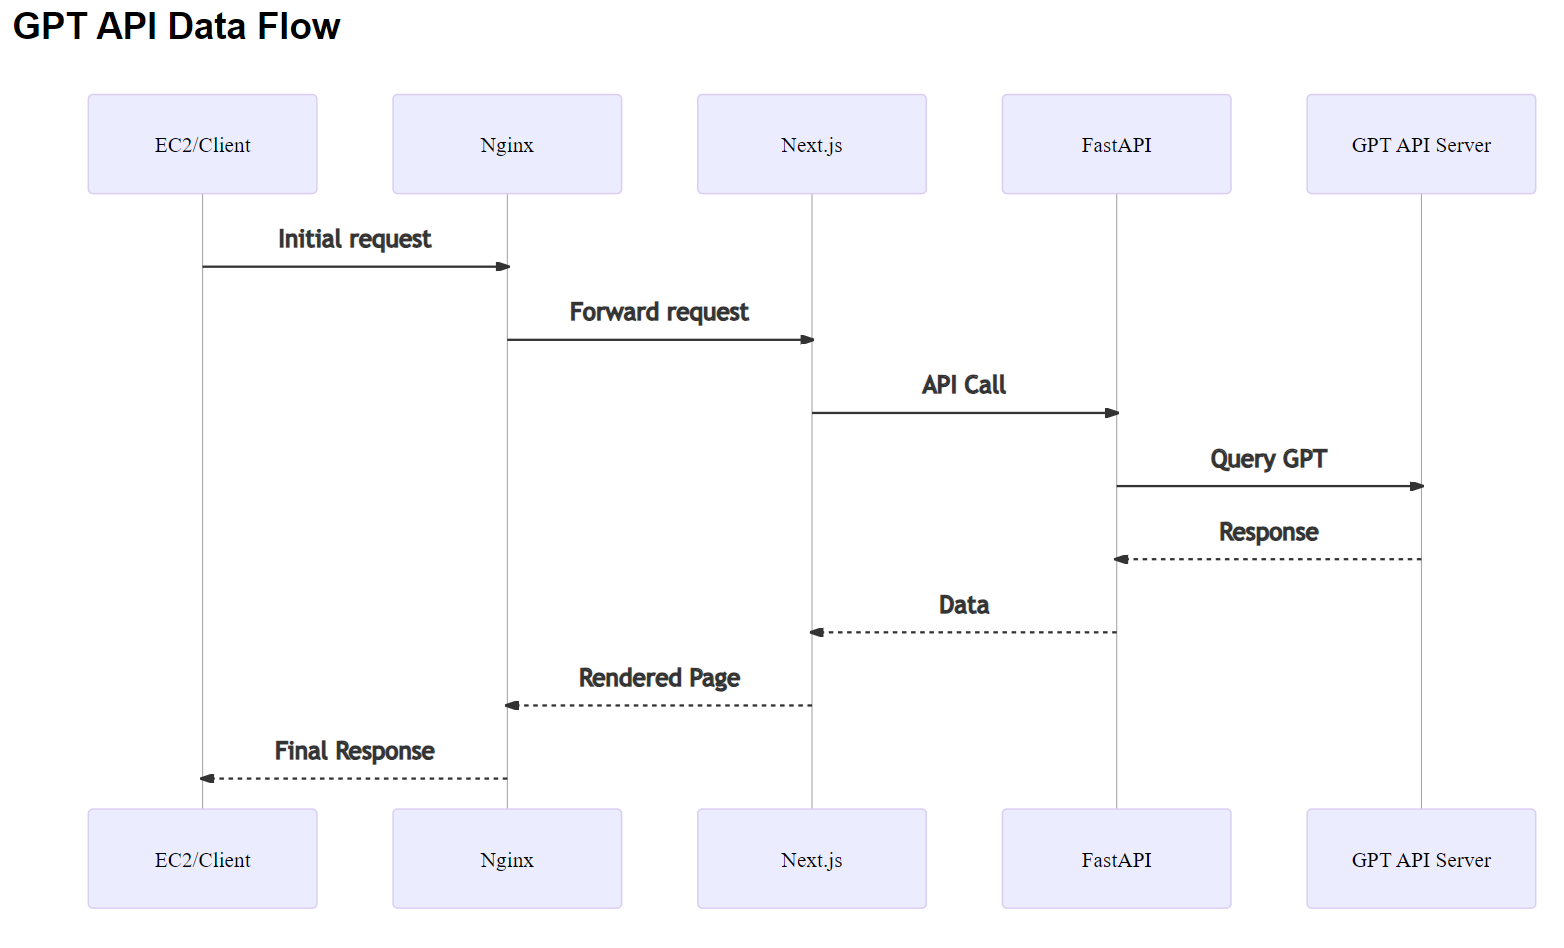
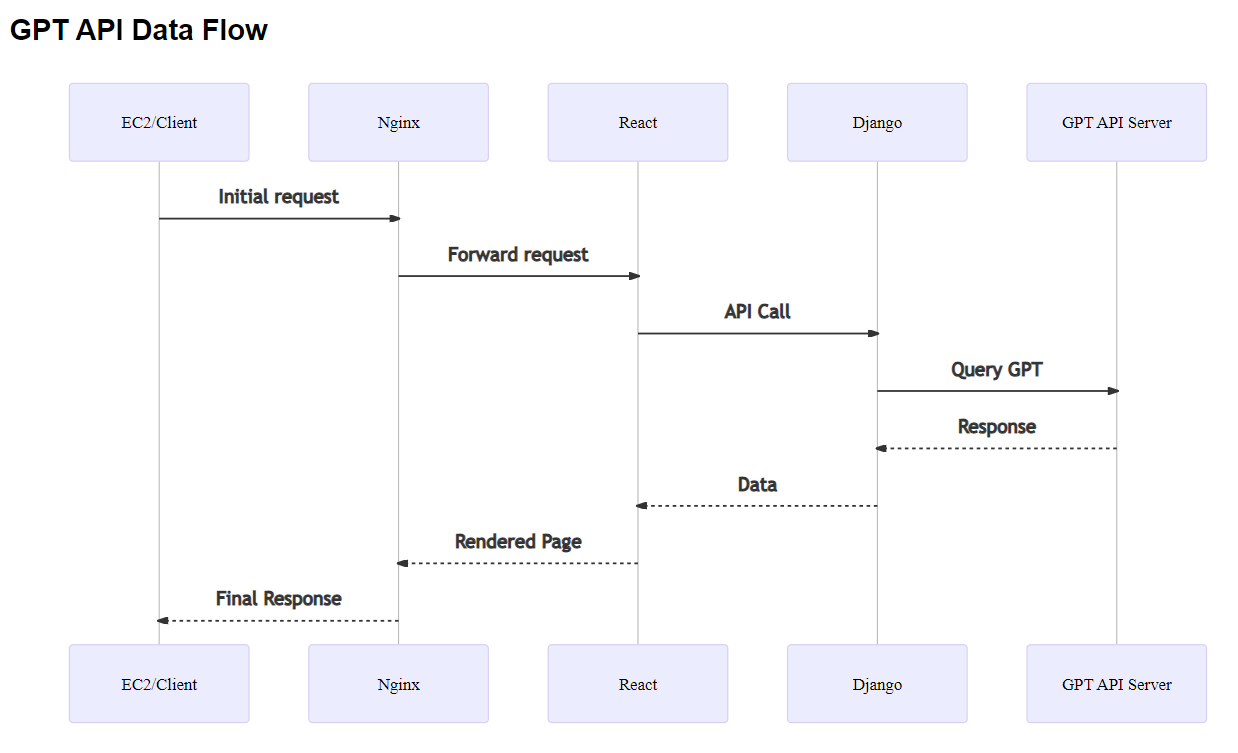
chore():

diff --git a/main.tex b/main.tex
@@ -18,12 +18,12 @@
 \definecolor{darkblue}{rgb}{0.0, 0.2, 0.6}
 
 
-\title{SKKU Mail: A GPT-Integrated Email Service for Dynamic Content Generation}
+\title{MailGPT: A GPT-Integrated Email Service for Dynamic Content Generation}
 \author{
     Yosep Kim\textsuperscript{1}, 
-    Dohyun Boo\textsuperscript{2}, 
+    Dohyun Bu\textsuperscript{2}, 
     Sumin Lim\textsuperscript{3}, 
-    Miseo Jeong\textsuperscript{4}, 
+    Miseo Joung\textsuperscript{4}, 
 }
 \date{\today}
 
@@ -32,10 +32,10 @@
 
 \begin{center}
 	\textsuperscript{1,2,3,4}Sungkyunkwan University\\
-	\href{https://skkumail.intueri.cloud}{https://skkumail.intueri.cloud}
+	\href{https://mailgpt.intueri.cloud}{https://mailgpt.intueri.cloud}
 \end{center}
 \begin{abstract}
-	In the digital communication era, email remains a pivotal tool for professional interactions. Despite its prevalence, composing a proficient email that encapsulates clarity, conciseness, and the appropriate tone can be complex. Miscommunications in such contexts can inadvertently lead to undesired consequences. SKKUMAIL introduces a novel solution by integrating the GPT API to facilitate dynamic email content creation suited to user intent. This system is technologically underpinned by Next.js for frontend design, Docker for deployment, and MongoDB for data management, establishing it as a potential game-changer in digital communication. Its architecture is modular, ensuring adaptability, and incorporates a user-friendly workflow. With the collaborative expertise of team members like Yosep Kim, Dohyeon Boo, Sumin Lim, and Miseo Jeong, SKKUMAIL seeks to redefine the realm of email drafting.
+	In the digital communication era, email remains a pivotal tool for professional interactions. Despite its prevalence, composing a proficient email that encapsulates clarity, conciseness, and the appropriate tone can be complex. Miscommunications in such contexts can inadvertently lead to undesired consequences. MailGPT introduces a novel solution by integrating the GPT API to facilitate dynamic email content creation suited to user intent. This system is technologically underpinned by React for frontend design, Docker for deployment, and SQLite for data management, establishing it as a potential game-changer in digital communication. Its architecture is modular, ensuring adaptability, and incorporates a user-friendly workflow. With the collaborative expertise of team members like Yosep Kim, Dohyun Bu, Sumin Lim, and Miseo Joung, MailGPT seeks to redefine the realm of email drafting.
 \end{abstract}
 \section{Introduction}
 
@@ -45,13 +45,13 @@ In the current digital age, email remains a primary medium for professional comm
 
 The essence of these challenges stems from the inability of individuals to quickly adapt their writing styles to different contexts. A miscommunication or a misinterpreted tone can have unintended consequences, affecting relationships and business outcomes. Therefore, it's imperative to strike the right balance, ensuring that the content of the email aligns perfectly with its intent.
 
-\subsection{Solution: SKKUMAIL}
+\subsection{Solution: MailGPT}
 
-Enter SKKUMAIL: a revolutionary approach to email writing. This service integrates the powerful language capabilities of the GPT API, offering dynamic email content generation tailored to the user's requirements. By simply specifying the target and mood of the email, users are provided with content that matches their intent, eliminating the common pain points of email drafting.
+Enter MailGPT: a revolutionary approach to email writing. This service integrates the powerful language capabilities of the GPT API, offering dynamic email content generation tailored to the user's requirements. By simply specifying the target and mood of the email, users are provided with content that matches their intent, eliminating the common pain points of email drafting.
 
 \subsection{Technical Backbone}
 
-Underpinning SKKUMAIL is a robust technological framework. It leverages the capabilities of Next.js for frontend development, ensuring a responsive and intuitive user interface. Docker facilitates easy deployment, ensuring that the application remains scalable and resilient. The data backbone of the application, including email drafts and user preferences, is managed through MongoDB, a versatile and efficient database solution. The fusion of these technologies, coupled with the intelligence of the GPT API, positions SKKUMAIL as a forerunner in transforming digital communication.
+Underpinning MailGPT is a robust technological framework. It leverages the capabilities of React for frontend development, ensuring a responsive and intuitive user interface. Docker facilitates easy deployment, ensuring that the application remains scalable and resilient. The data backbone of the application, including email drafts and user preferences, is managed through SQLite, a versatile and efficient database solution. The fusion of these technologies, coupled with the intelligence of the GPT API, positions MailGPT as a forerunner in transforming digital communication.
 
 
 \section{System Architecture}
@@ -61,30 +61,30 @@ The system architecture of our application is robust and designed to handle the 
 \subsection{Components}
 Our system is divided into three core components, each dedicated to performing its task efficiently:
 \begin{itemize}
-	\item \textbf{Frontend}: Developed using Next.js, a popular React framework known for its server-side rendering capabilities. It ensures a seamless user experience, catering to a responsive design that is adaptable across devices of varying sizes.
+	\item \textbf{Frontend}: Developed using React, a popular React framework known for its server-side rendering capabilities. It ensures a seamless user experience, catering to a responsive design that is adaptable across devices of varying sizes.
 	      	          
-	\item \textbf{Backend}: Developed using Fast API, a high-performance framework for building web applications. This component is responsible for the system's core logic, including its interaction with MongoDB and the GPT API. It plays a pivotal role in data processing and content generation.
+	\item \textbf{Backend}: Developed using Fast API, a high-performance framework for building web applications. This component is responsible for the system's core logic, including its interaction with SQLite and the GPT API. It plays a pivotal role in data processing and content generation.
 	      	          
-	\item \textbf{Database}: We've opted for MongoDB as our primary data store. Renowned for its NoSQL capabilities, MongoDB is perfect for storing prompts and the dynamically generated content. Its schema-less nature offers flexibility in data storage, ensuring adaptability as the system evolves.
+	\item \textbf{Database}: We've opted for SQLite as our primary data store. 
 \end{itemize}
 
 \subsection{Workflow}
 The workflow is straightforward and user-centric. Upon accessing the platform, users are prompted to provide the target email and their desired mood or tone for the email content. This leads to a sequence of operations:
 
-The frontend, harnessing the capabilities of Next.js, utilizes a predefined template to generate a unique prompt based on the user's input. This prompt is securely stored in MongoDB for future reference. Following this, the backend, powered by Fast API, dispatches the prompt to the GPT API. The GPT API, using its advanced natural language processing capabilities, crafts an appropriate email content tailored to the user's requirements. This content is returned in Markdown format, allowing users to view a well-structured preview.
+The frontend, harnessing the capabilities of React, utilizes a predefined template to generate a unique prompt based on the user's input. This prompt is securely stored in SQLite for future reference. Following this, the backend, powered by Fast API, dispatches the prompt to the GPT API. The GPT API, using its advanced natural language processing capabilities, crafts an appropriate email content tailored to the user's requirements. This content is returned in Markdown format, allowing users to view a well-structured preview.
 
 If the user is satisfied with the generated content, a confirmation is obtained. Subsequently, the content is sent to the designated target email address using SMTP, ensuring timely and reliable delivery.
 
 \section{Technical Details}
 
 \subsection{Frontend}
-The frontend, developed using the sophisticated Next.js framework, serves as the gateway to our application. It's the first point of contact for users, offering them an intuitive interface to input their requirements. Built with a responsive design, it ensures accessibility across a myriad of devices, from desktops to smartphones. It is designed to be both visually appealing and functional, enhancing user engagement and satisfaction.
+The frontend, developed using the sophisticated React framework, serves as the gateway to our application. It's the first point of contact for users, offering them an intuitive interface to input their requirements. Built with a responsive design, it ensures accessibility across a myriad of devices, from desktops to smartphones. It is designed to be both visually appealing and functional, enhancing user engagement and satisfaction.
 
 \subsection{Backend}
 At the heart of our application lies the backend, which orchestrates a symphony of operations:
 
 \begin{enumerate}
-	\item \textbf{Interaction with MongoDB}: Even though MongoDB serves as our primary database, we leverage MongoDB for certain relational data requirements. It provides a robust and efficient platform for data storage and retrieval.
+	\item \textbf{Interaction with SQLite}: Even though SQLite serves as our primary database, we leverage SQLite for certain relational data requirements. It provides a robust and efficient platform for data storage and retrieval.
 	      	          
 	\item \textbf{Sending the prompt to the GPT API}: The core functionality. Based on user inputs, the system creates a custom prompt. This is dispatched to the GPT API, awaiting its magic of content generation.
 	      	          
@@ -93,7 +93,7 @@ At the heart of our application lies the backend, which orchestrates a symphony 
 
 \subsection{Data Flow Diagrams}
 
-The intricate interplay between the frontend and backend of SKKUMAIL is aptly captured using detailed data flow diagrams. These diagrams, while complex in their representation, serve as a beacon for understanding the delicate choreography of data exchange and processing that ensues within our system. The multifarious activities and communication pathways, showcasing the convergence of various system modules, are intricately laid out in these diagrams. 
+The intricate interplay between the frontend and backend of MailGPT is aptly captured using detailed data flow diagrams. These diagrams, while complex in their representation, serve as a beacon for understanding the delicate choreography of data exchange and processing that ensues within our system. The multifarious activities and communication pathways, showcasing the convergence of various system modules, are intricately laid out in these diagrams. 
 
 Our decision to utilize such expressive visuals stems from the quintessential need for clear and precise elucidation of the interactions between different system components. For developers, stakeholders, and even advanced users, these diagrams provide invaluable insights into the internal workings of our platform. They unravel the layered intricacies and underscore the robustness of our application’s design.
 
@@ -102,11 +102,11 @@ Furthermore, while the user interface presents a polished and seamless experienc
 
 \subsubsection{GPT API Data Flow}
 
-As depicted in Figure \ref{fig:gpt_api_flow}, the GPT API data flow underpins SKKUMAIL's operation, demonstrating a meticulously orchestrated interaction among various components.
+As depicted in Figure \ref{fig:gpt_api_flow}, the GPT API data flow underpins MailGPT's operation, demonstrating a meticulously orchestrated interaction among various components.
 
-Upon a user's request, the system channels the call from the client terminal to our EC2 instance, initially interfacing with the Nginx for efficient load balancing. The request subsequently traverses the Next.js framework for preliminary processing and then to FastAPI, an ASGI framework ensuring rapid processing and data integrity. At the crux of this sequence, the GPT API server, fortified with advanced algorithms, processes and contextualizes the request, transforming it into coherent outputs.
+Upon a user's request, the system channels the call from the client terminal to our EC2 instance, initially interfacing with the Nginx for efficient load balancing. The request subsequently traverses the React framework for preliminary processing and then to FastAPI, an ASGI framework ensuring rapid processing and data integrity. At the crux of this sequence, the GPT API server, fortified with advanced algorithms, processes and contextualizes the request, transforming it into coherent outputs.
 
-The processed data, rich with insights, retraces its steps, passing through FastAPI and Next.js for final optimization before Nginx ensures its prompt return to the user. This streamlined flow epitomizes efficiency and reliability in SKKUMAIL's infrastructure.
+The processed data, rich with insights, retraces its steps, passing through FastAPI and React for final optimization before Nginx ensures its prompt return to the user. This streamlined flow epitomizes efficiency and reliability in MailGPT's infrastructure.
 
 
 \begin{figure}[ht]
@@ -139,7 +139,7 @@ Our database comprises three core tables: \textit{LOGIN}, \textit{HISTORY}, and 
 \begin{figure}[ht]
 	\centering
 	\includegraphics[width=0.8\textwidth]{ER_Diagram.png}
-	\caption{Entity-Relationship Diagram for the SKKUMAIL Database}
+	\caption{Entity-Relationship Diagram for the MailGPT Database}
 	\label{fig:er_diagram}
 \end{figure}
 
@@ -214,7 +214,7 @@ The Agile Scrum methodology's Gantt chart showcases the progression of the proje
 
 \subsection{Team Roles}
 
-In the journey of creating the SKKUMAIL application, a team of adept professionals was assembled, each with specific roles and responsibilities. The table below delineates the key team members and their associated tasks:
+In the journey of creating the MailGPT application, a team of adept professionals was assembled, each with specific roles and responsibilities. The table below delineates the key team members and their associated tasks:
 
 \begin{table}[ht]
 	\centering
@@ -225,32 +225,31 @@ In the journey of creating the SKKUMAIL application, a team of adept professiona
 		\hline
 		Yosep Kim   & Project Manager, Documentation, Backend (Cloud Infra), AI algorithm \\
 		\hline
-		Sumin Lim   & Frontend (Next.js, UX/UI)                                           \\
+		Sumin Lim   & Frontend (React, UX/UI)                                           \\
 		\hline
-		Dohyeon Boo & Backend (Fast API, GPT, DB), AI algorithm                           \\
-		
+		Dohyun Bu & Backend (Fast API, GPT, DB), AI algorithm                           \\
 		\hline
-		Miseo Jeong & Frontend (Next.js, UX/UI)                                           \\
+		Miseo Joung & Frontend (React, UX/UI)                                           \\
 		\hline
 	\end{tabularx}
 	\caption{Roles and Responsibilities of the Team Members}
 \end{table}
 
-Yosep Kim leads the project, overseeing management, backend infrastructure, and AI advancements. Dohyeon Boo handles backend tasks, including APIs and AI. Sumin Lim manages the frontend using Next.js and contributes to the backend. Miseo Jeong specializes in UX/UI and backend APIs. Their combined expertise drives the SKKUMAIL project.
+Yosep Kim leads the project, overseeing management, backend infrastructure, and AI advancements. Dohyun Bu handles backend tasks, including APIs and AI. Sumin Lim manages the frontend using React and contributes to the backend. Miseo Joung specializes in UX/UI and backend APIs. Their combined expertise drives the MailGPT project.
 
 \titleformat{\section}[block]{\normalfont\Large\bfseries\color{darkblue}}{\thesection}{1em}{}
 
 \section*{Conclusion}
 
-In the age of rapid digital communication, the efficiency and clarity of our electronic correspondences play a pivotal role in both professional and personal settings. \textbf{SKKUMAIL}'s integration with the GPT API promises a transformative approach to email composition.
+In the age of rapid digital communication, the efficiency and clarity of our electronic correspondences play a pivotal role in both professional and personal settings. \textbf{MailGPT}'s integration with the GPT API promises a transformative approach to email composition.
 
-The traditional method of email writing often involves considerable time and cognitive effort. This can lead to unnecessary delays, potential misunderstandings, or even missed opportunities. By intelligently generating content based on user prompts, \textbf{SKKUMAIL} not only simplifies this process but also offers a consistently high-quality output.
+The traditional method of email writing often involves considerable time and cognitive effort. This can lead to unnecessary delays, potential misunderstandings, or even missed opportunities. By intelligently generating content based on user prompts, \textbf{MailGPT} not only simplifies this process but also offers a consistently high-quality output.
 
-Moreover, as the GPT API continues to evolve and improve, the potential for \textbf{SKKUMAIL}'s features will only grow. There's a possibility for broader applications such as customizing email styles based on recipient preferences, generating summaries of long emails for quick reading, and even predicting user intent to further streamline the email drafting process.
+Moreover, as the GPT API continues to evolve and improve, the potential for \textbf{MailGPT}'s features will only grow. There's a possibility for broader applications such as customizing email styles based on recipient preferences, generating summaries of long emails for quick reading, and even predicting user intent to further streamline the email drafting process.
 
-Additionally, for non-native speakers or those less confident in their writing abilities, \textbf{SKKUMAIL} can act as an invaluable tool, ensuring clarity and coherence in their emails. This democratizes the process, allowing more individuals to communicate effectively, regardless of their writing expertise.
+Additionally, for non-native speakers or those less confident in their writing abilities, \textbf{MailGPT} can act as an invaluable tool, ensuring clarity and coherence in their emails. This democratizes the process, allowing more individuals to communicate effectively, regardless of their writing expertise.
 
-In conclusion, \textbf{SKKUMAIL}'s innovative approach, driven by the power of the GPT API, promises not just an evolution in email composition, but a potential revolution in digital communication as a whole. As the digital age progresses, tools like \textbf{SKKUMAIL} will become indispensable in bridging gaps, enhancing efficiency, and making sure that communication remains at the heart of all our interactions.
+In conclusion, \textbf{MailGPT}'s innovative approach, driven by the power of the GPT API, promises not just an evolution in email composition, but a potential revolution in digital communication as a whole. As the digital age progresses, tools like \textbf{MailGPT} will become indispensable in bridging gaps, enhancing efficiency, and making sure that communication remains at the heart of all our interactions.
 
 
 \begin{thebibliography}{99}
